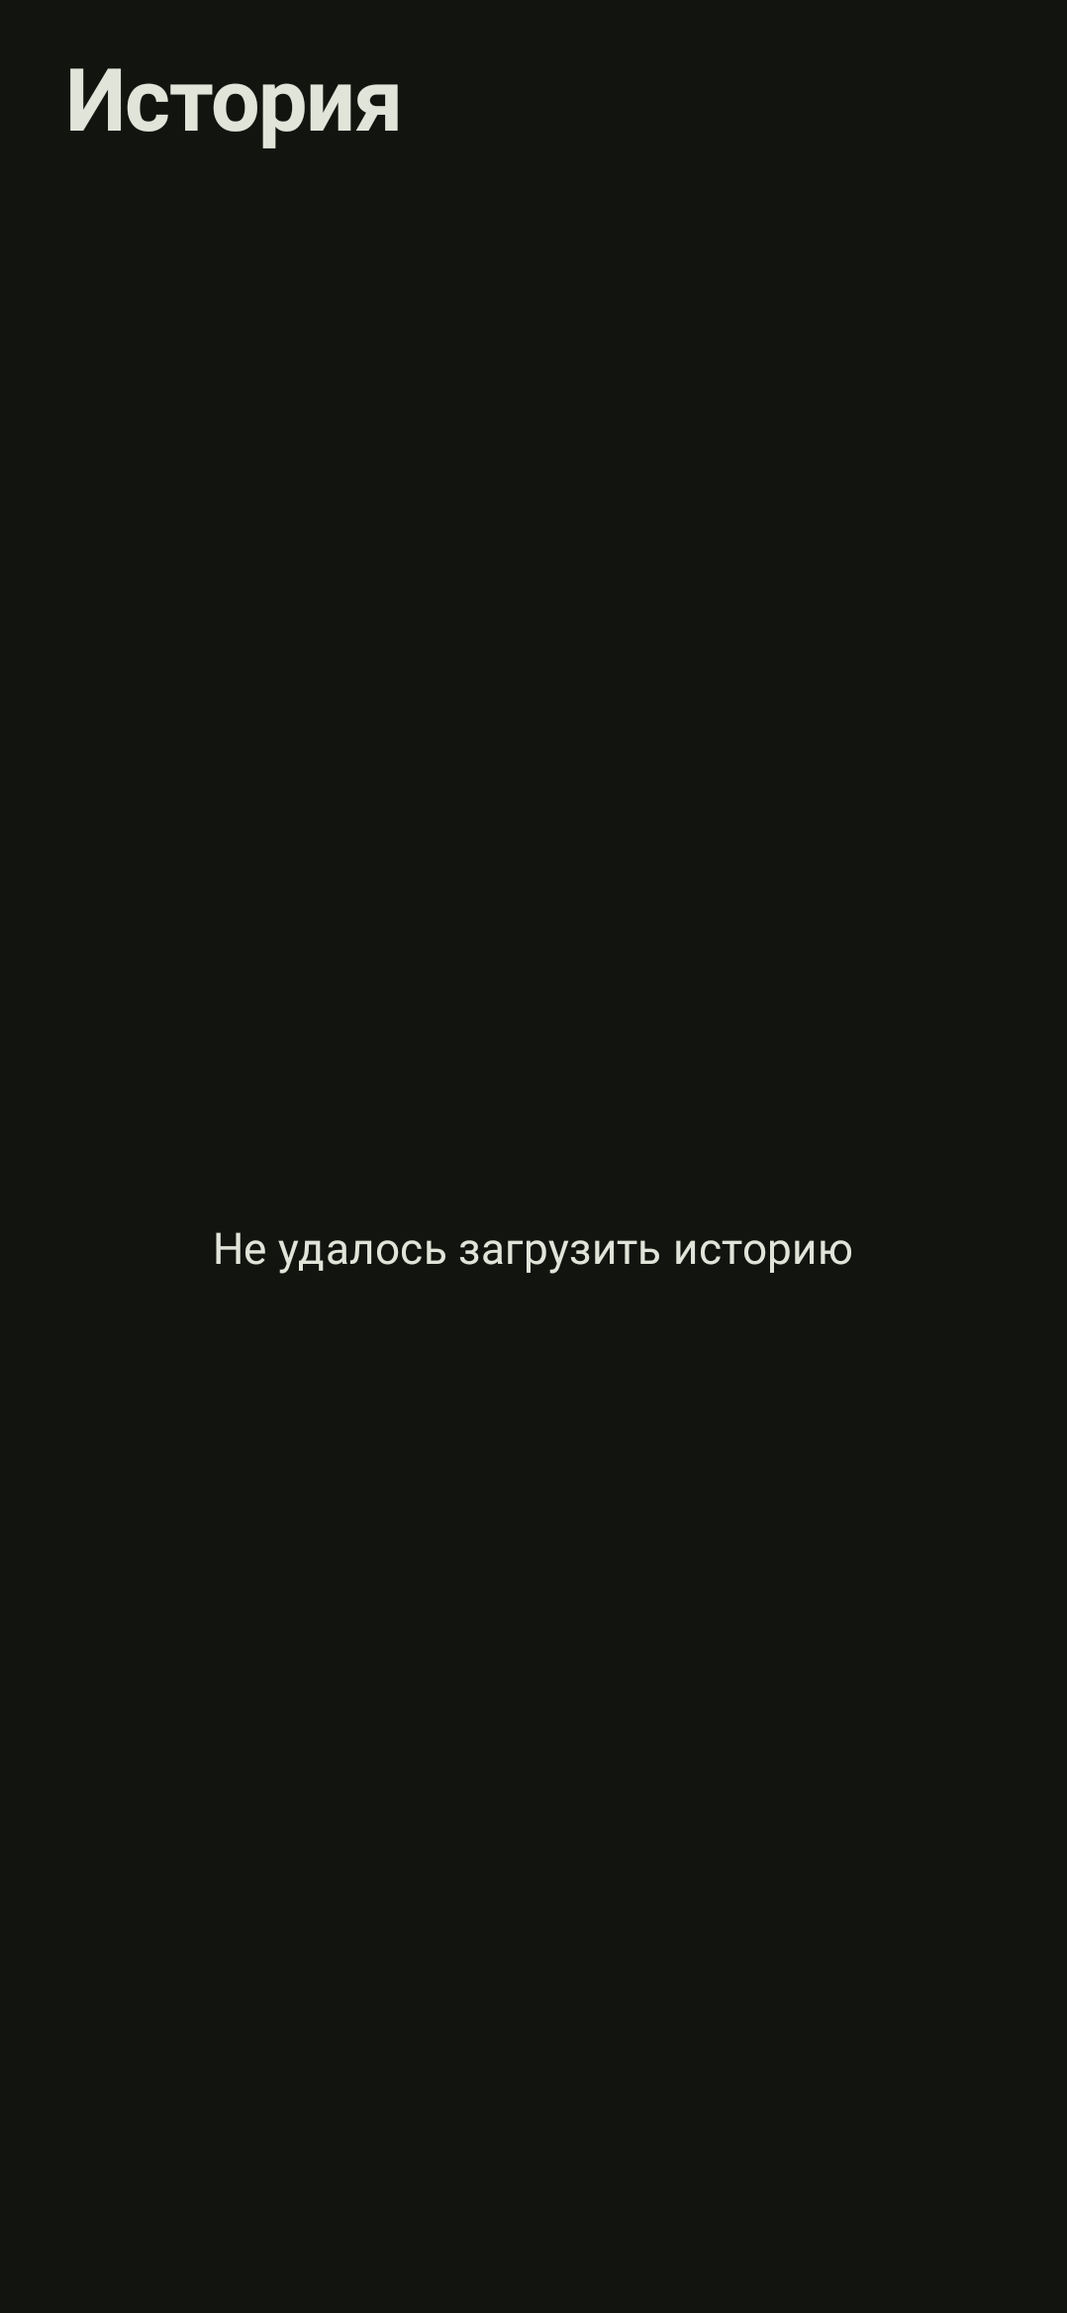
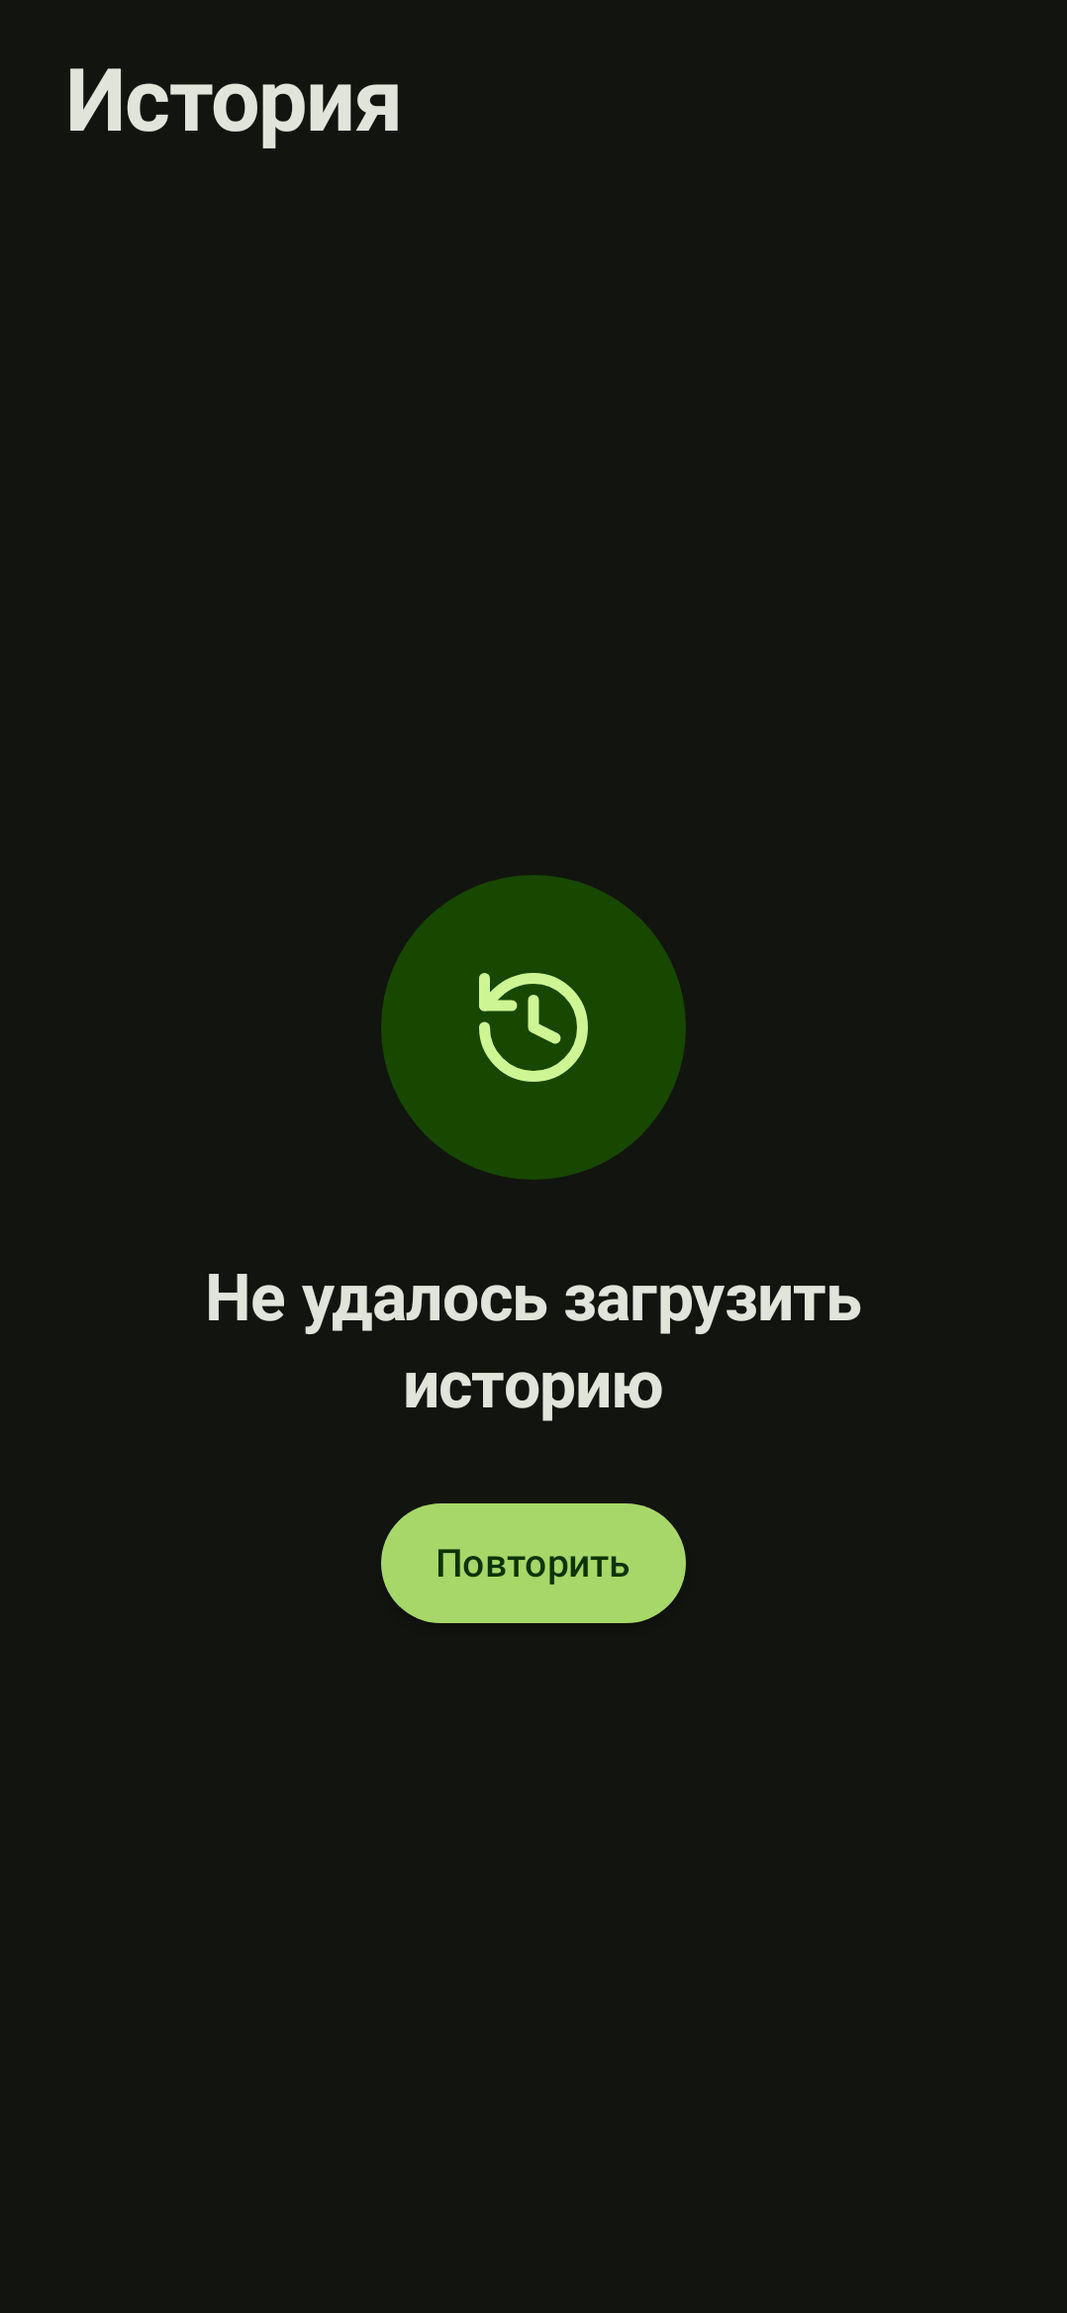
RD-25: ошибка Истории на LyteError и повтор загрузки (#27)
Арм переведён с сырого Throwable.message на LyteError, рендер — на
LyteEmptyState с кнопкой повтора, как на соседнем экране деталей.

Ревью нашло, что воронка ошибок была подключена наполовину: runCatching
обёрнут только вокруг запроса, а группировка по месяцам в .onSuccess берёт
таймзону и текущее время уже снаружи — бросок оттуда уходил в no-op базового
класса, и экран оставался в Loading навсегда, без кнопки повтора.
Переопределён handleError; отмена больше не показывается ошибкой.

Тесты: повтор проходит через Loading (фейк получил шлюз), сбой мимо
runCatching доходит до арма ошибки — проверено фальсификацией.

Changed region(s): [[0.1837, 0.3748, 0.7959, 0.7184]]

diff --git a/feature/history/impl/src/commonTest/kotlin/com/nikolaevskii/lyte/feature/history/presentation/viewmodel/HistoryViewModelTest.kt b/feature/history/impl/src/commonTest/kotlin/com/nikolaevskii/lyte/feature/history/presentation/viewmodel/HistoryViewModelTest.kt
@@ -1,10 +1,12 @@
 package com.nikolaevskii.lyte.feature.history.presentation.viewmodel
 
+import com.nikolaevskii.lyte.core.mvi.LyteError
 import com.nikolaevskii.lyte.core.navigation.model.NavCommand
 import com.nikolaevskii.lyte.feature.history.HistorySessionDetailsRoute
 import com.nikolaevskii.lyte.feature.history.finishedSession
 import com.nikolaevskii.lyte.feature.history.presentation.model.mvi.HistoryIntent
 import com.nikolaevskii.lyte.feature.history.presentation.model.mvi.HistoryUiState
+import kotlinx.coroutines.CompletableDeferred
 import kotlinx.coroutines.Dispatchers
 import kotlinx.coroutines.ExperimentalCoroutinesApi
 import kotlinx.coroutines.test.StandardTestDispatcher
@@ -91,7 +93,26 @@ class HistoryViewModelTest {
         runCurrent()
 
         val error = assertIs<HistoryUiState.Error>(viewModel.uiState.value)
-        assertEquals("boom", error.message)
+        // Сырой текст Room/SQLite наружу не утекает — экран получает типизированную ошибку.
+        assertIs<LyteError.Unknown>(error.error)
+    }
+
+    @Test
+    fun retryAfterFailureReloadsSessions() = runTest(testDispatcher) {
+        val repository = FakeSessionHistoryRepository().apply { getFinishedSessionsError = IllegalStateException("boom") }
+        val viewModel = viewModel(repository)
+        runCurrent()
+        assertIs<HistoryUiState.Error>(viewModel.uiState.value)
+        repository.getFinishedSessionsError = null
+        repository.finishedSessions = listOf(
+            finishedSession("1", "Push Day", LocalDateTime(2026, Month.JULY, 2, 12, 0), durationMinutes = 52),
+        )
+
+        viewModel.onIntent(HistoryIntent.OnRetryClicked)
+        runCurrent()
+
+        val content = assertIs<HistoryUiState.Content>(viewModel.uiState.value)
+        assertEquals("Push Day", content.groups.single().sessions.single().programName)
     }
 
     @Test
@@ -111,6 +132,53 @@ class HistoryViewModelTest {
 
         // Ошибка перечитывания не затирает уже показанный список.
         assertEquals(loaded, viewModel.uiState.value)
+    }
+
+    @Test
+    fun retryFromErrorShowsLoadingBeforeResult() = runTest(testDispatcher) {
+        val repository = FakeSessionHistoryRepository()
+        repository.getFinishedSessionsError = IllegalStateException("boom")
+        val viewModel = viewModel(repository)
+        runCurrent()
+        assertIs<HistoryUiState.Error>(viewModel.uiState.value)
+
+        // Загрузку держим на шлюзе: иначе StateFlow схлопнет Loading с итоговым кадром, и переход,
+        // ради которого в loadSessions стоит ветка `!is Content`, останется без свидетеля.
+        val gate = CompletableDeferred<Unit>()
+        repository.getFinishedSessionsGate = gate
+        repository.getFinishedSessionsError = null
+        repository.finishedSessions = listOf(
+            finishedSession("1", "Push Day", LocalDateTime(2026, Month.JULY, 2, 12, 0), durationMinutes = 52),
+        )
+
+        viewModel.onIntent(HistoryIntent.OnRetryClicked)
+        runCurrent()
+        assertIs<HistoryUiState.Loading>(viewModel.uiState.value)
+
+        gate.complete(Unit)
+        runCurrent()
+        assertIs<HistoryUiState.Content>(viewModel.uiState.value)
+    }
+
+    @Test
+    fun failureOutsideRunCatchingSurfacesError() = runTest(testDispatcher) {
+        // Сбой в `.onSuccess` (группировка по месяцам) идёт мимо runCatching — через воронку
+        // handleError. Без её переопределения экран навсегда завис бы в Loading.
+        val repository = FakeSessionHistoryRepository(
+            finishedSessions = listOf(
+                finishedSession("1", "Push Day", LocalDateTime(2026, Month.JULY, 2, 12, 0), durationMinutes = 52),
+            ),
+        )
+        val viewModel = HistoryViewModel(
+            sessionHistoryRepository = repository,
+            lyteNavigator = FakeLyteNavigator(),
+            clock = ThrowingClock,
+        )
+
+        viewModel.onIntent(HistoryIntent.OnScreenShown)
+        runCurrent()
+
+        assertIs<HistoryUiState.Error>(viewModel.uiState.value)
     }
 
     @Test
@@ -139,6 +207,11 @@ class HistoryViewModelTest {
         lyteNavigator = navigator,
         clock = FixedClock(TEST_NOW),
     )
+
+    /** Часы, которые падают: воспроизводят сбой в `.onSuccess`, идущий мимо runCatching. */
+    private object ThrowingClock : Clock {
+        override fun now(): Instant = throw IllegalStateException("clock boom")
+    }
 
     /** Часы прибиты: относительная дата карточки не должна зависеть от дня запуска тестов. */
     private class FixedClock(private val now: Instant) : Clock {

diff --git a/feature/history/impl/src/commonMain/kotlin/com/nikolaevskii/lyte/feature/history/presentation/screen/HistoryScreen.kt b/feature/history/impl/src/commonMain/kotlin/com/nikolaevskii/lyte/feature/history/presentation/screen/HistoryScreen.kt
@@ -9,7 +9,6 @@ import androidx.compose.foundation.lazy.LazyColumn
 import androidx.compose.foundation.lazy.items
 import androidx.compose.material3.CircularProgressIndicator
 import androidx.compose.material3.Scaffold
-import androidx.compose.material3.Text
 import androidx.compose.runtime.Composable
 import androidx.compose.runtime.LaunchedEffect
 import androidx.compose.runtime.getValue
@@ -29,6 +28,7 @@ import com.nikolaevskii.lyte.core.design.component.progress.LyteProgressTrackMod
 import com.nikolaevskii.lyte.core.design.icon.LyteExerciseGlyph
 import com.nikolaevskii.lyte.core.design.icon.LyteIcons
 import com.nikolaevskii.lyte.core.design.theme.LyteAccent
+import com.nikolaevskii.lyte.core.mvi.LyteError
 import com.nikolaevskii.lyte.feature.history.generated.resources.Res
 import com.nikolaevskii.lyte.feature.history.generated.resources.history_date
 import com.nikolaevskii.lyte.feature.history.generated.resources.history_date_days_ago
@@ -39,6 +39,7 @@ import com.nikolaevskii.lyte.feature.history.generated.resources.history_empty_m
 import com.nikolaevskii.lyte.feature.history.generated.resources.history_error
 import com.nikolaevskii.lyte.feature.history.generated.resources.history_month_names
 import com.nikolaevskii.lyte.feature.history.generated.resources.history_month_names_short
+import com.nikolaevskii.lyte.feature.history.generated.resources.history_retry
 import com.nikolaevskii.lyte.feature.history.generated.resources.history_session_duration
 import com.nikolaevskii.lyte.feature.history.generated.resources.history_title
 import com.nikolaevskii.lyte.feature.history.presentation.model.HistoryMonthGroupUiModel
@@ -93,9 +94,16 @@ fun HistoryContent(
                 HistoryUiState.Loading ->
                     CircularProgressIndicator(modifier = Modifier.align(Alignment.Center))
 
+                // Ошибка — то же полноразмерное состояние, что и пустая история, но с действием
+                // повтора. Текст один на все LyteError: список сессий умеет провалиться только
+                // чтением локальной БД (NotFound здесь недостижим), а сырой текст сбоя наружу не
+                // выходит по контракту LyteError.
                 is HistoryUiState.Error ->
-                    Text(
-                        text = state.message ?: stringResource(Res.string.history_error),
+                    LyteEmptyState(
+                        message = stringResource(Res.string.history_error),
+                        icon = LyteIcons.History,
+                        actionLabel = stringResource(Res.string.history_retry),
+                        onAction = { onIntent(HistoryIntent.OnRetryClicked) },
                         modifier = Modifier.align(Alignment.Center),
                     )
 
@@ -275,6 +283,6 @@ private fun HistoryContentLoadingPreview() {
 @Preview
 private fun HistoryContentErrorPreview() {
     LyteTheme {
-        HistoryContent(state = HistoryUiState.Error(message = null), onIntent = {})
+        HistoryContent(state = HistoryUiState.Error(LyteError.Storage), onIntent = {})
     }
 }

diff --git a/feature/history/impl/src/commonMain/kotlin/com/nikolaevskii/lyte/feature/history/presentation/viewmodel/HistoryViewModel.kt b/feature/history/impl/src/commonMain/kotlin/com/nikolaevskii/lyte/feature/history/presentation/viewmodel/HistoryViewModel.kt
@@ -1,12 +1,14 @@
 package com.nikolaevskii.lyte.feature.history.presentation.viewmodel
 
 import com.nikolaevskii.lyte.core.mvi.BaseViewModel
+import com.nikolaevskii.lyte.core.mvi.toLyteError
 import com.nikolaevskii.lyte.core.navigation.LyteNavigator
 import com.nikolaevskii.lyte.feature.history.HistorySessionDetailsRoute
 import com.nikolaevskii.lyte.feature.history.presentation.model.mvi.HistoryIntent
 import com.nikolaevskii.lyte.feature.history.presentation.model.mvi.HistoryUiState
 import com.nikolaevskii.lyte.feature.history.presentation.model.toMonthGroups
 import com.nikolaevskii.lyte.core.session.domain.repository.SessionHistoryRepository
+import kotlinx.coroutines.CancellationException
 import kotlinx.coroutines.launch
 import kotlinx.datetime.TimeZone
 import kotlinx.datetime.toLocalDateTime
@@ -25,6 +27,8 @@ class HistoryViewModel(
     override fun onIntent(intent: HistoryIntent) {
         when (intent) {
             HistoryIntent.OnScreenShown -> launch { loadSessions() }
+            // Повтор после ошибки — та же загрузка: список сейчас в Error, поэтому пойдёт через Loading.
+            HistoryIntent.OnRetryClicked -> launch { loadSessions() }
             is HistoryIntent.OnSessionClicked ->
                 lyteNavigator.navigate(HistorySessionDetailsRoute(sessionId = intent.id))
         }
@@ -49,8 +53,23 @@ class HistoryViewModel(
                 updateState { if (groups.isEmpty()) HistoryUiState.Empty else HistoryUiState.Content(groups) }
             }
             .onFailure { error ->
-                // Ошибка перечитывания при уже показанном списке не затирает его.
-                updateState { if (this is HistoryUiState.Content) this else HistoryUiState.Error(error.message) }
+                // runCatching ловит и отмену — её нельзя показывать пользователем как ошибку.
+                if (error is CancellationException) throw error
+                showError(error)
             }
+    }
+
+    /**
+     * Сбой мимо [runCatching] — в `.onSuccess` группировка по месяцам берёт таймзону и «сегодня».
+     * Без этой воронки такой бросок ушёл бы в no-op базового класса, и экран навсегда остался бы в
+     * [HistoryUiState.Loading]: кнопка повтора живёт только в арме [HistoryUiState.Error].
+     */
+    override fun handleError(error: Throwable) {
+        showError(error)
+    }
+
+    /** Ошибка перечитывания при уже показанном списке не затирает его. */
+    private fun showError(error: Throwable) {
+        updateState { if (this is HistoryUiState.Content) this else HistoryUiState.Error(error.toLyteError()) }
     }
 }

diff --git a/feature/history/impl/src/commonMain/kotlin/com/nikolaevskii/lyte/feature/history/presentation/model/mvi/HistoryContract.kt b/feature/history/impl/src/commonMain/kotlin/com/nikolaevskii/lyte/feature/history/presentation/model/mvi/HistoryContract.kt
@@ -1,5 +1,6 @@
 package com.nikolaevskii.lyte.feature.history.presentation.model.mvi
 
+import com.nikolaevskii.lyte.core.mvi.LyteError
 import com.nikolaevskii.lyte.core.mvi.UiIntent
 import com.nikolaevskii.lyte.core.mvi.UiState
 import com.nikolaevskii.lyte.feature.history.presentation.model.HistoryMonthGroupUiModel
@@ -14,8 +15,8 @@ sealed interface HistoryUiState : UiState {
     /** Первичная загрузка — показать индикатор (данных ещё нет). */
     data object Loading : HistoryUiState
 
-    /** Загрузка не удалась и показывать нечего; [message] — сырой текст ошибки (может быть null). */
-    data class Error(val message: String?) : HistoryUiState
+    /** Загрузка не удалась и показывать нечего; [error] — типизированная ошибка, текст подбирает экран. */
+    data class Error(val error: LyteError) : HistoryUiState
 
     /** Завершённых сессий нет — пустое состояние. */
     data object Empty : HistoryUiState
@@ -29,6 +30,9 @@ sealed interface HistoryIntent : UiIntent {
 
     /** Экран показан — перечитываем список, чтобы подхватить сессии, завершённые в трекере. */
     data object OnScreenShown : HistoryIntent
+
+    /** Тап по «Повторить» в состоянии ошибки — перезапустить загрузку списка. */
+    data object OnRetryClicked : HistoryIntent
 
     /** Тап по завершённой сессии [id] — открыть её детали (5.2). */
     data class OnSessionClicked(val id: String) : HistoryIntent

diff --git a/feature/history/impl/src/commonTest/kotlin/com/nikolaevskii/lyte/feature/history/presentation/viewmodel/FakeSessionHistoryRepository.kt b/feature/history/impl/src/commonTest/kotlin/com/nikolaevskii/lyte/feature/history/presentation/viewmodel/FakeSessionHistoryRepository.kt
@@ -3,6 +3,7 @@ package com.nikolaevskii.lyte.feature.history.presentation.viewmodel
 import com.nikolaevskii.lyte.core.session.domain.model.WorkoutSessionEntity
 import com.nikolaevskii.lyte.core.session.domain.model.WorkoutSessionItemEntity
 import com.nikolaevskii.lyte.core.session.domain.repository.SessionHistoryRepository
+import kotlinx.coroutines.CompletableDeferred
 import kotlinx.coroutines.flow.Flow
 import kotlinx.coroutines.flow.flow
 
@@ -17,6 +18,12 @@ internal class FakeSessionHistoryRepository(
 ) : SessionHistoryRepository {
 
     var getFinishedSessionsError: Throwable? = null
+
+    /**
+     * Шлюз: пока выставлен и не завершён, [getFinishedSessions] висит. Нужен, чтобы тест успел
+     * увидеть промежуточный кадр загрузки — без приостановки `StateFlow` схлопнет его с итоговым.
+     */
+    var getFinishedSessionsGate: CompletableDeferred<Unit>? = null
     var getSessionError: Throwable? = null
     var deleteSessionError: Throwable? = null
 
@@ -24,6 +31,7 @@ internal class FakeSessionHistoryRepository(
     val deletedSessionIds = mutableListOf<String>()
 
     override suspend fun getFinishedSessions(): List<WorkoutSessionItemEntity> {
+        getFinishedSessionsGate?.await()
         getFinishedSessionsError?.let { error -> throw error }
         return finishedSessions
     }
